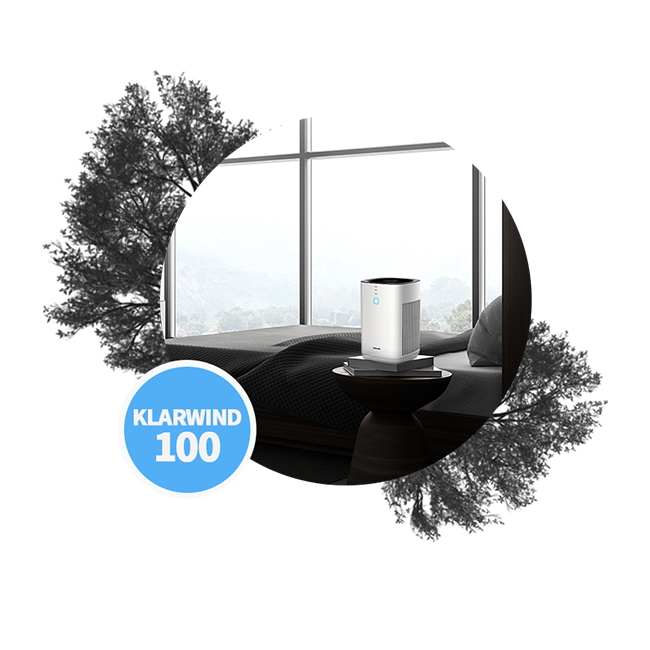
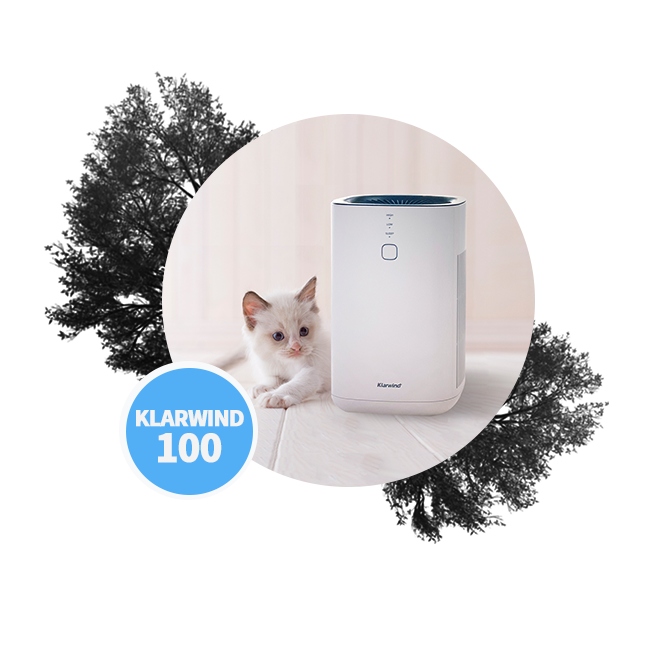
up

diff --git a/klarwind/product.html b/klarwind/product.html
@@ -227,9 +227,9 @@
       <div class="box">
         <img src="images/sub1_mo.png" alt="" class="blind_mo">
         <h1>SPECIAL<br>NEW</h1>
-        <img src="images/sub1.png" alt="" class="blind_pc">
+        <img src="images/sub1.png" alt="" class="blind_pc proimgbg">
         <!-- <div class="ellipse1"></div> -->
-        <img src="images/sub1_1mg.png" alt="" class="blind_pc">
+        <img src="images/sub1_1mg.png" alt="" class="blind_pc proimgtop">
         <div class="visualTxt1">
           <h2>We care you and your family</h2>
           <p>Making a better place for your family is our priority </p>

diff --git a/klarwind/css/Desktops.css b/klarwind/css/Desktops.css
@@ -413,8 +413,10 @@ nav#navTop #topMenu_2 img{width: 40px;}
   box-shadow: 0 5px 15px 0 rgba(0, 0, 0, 0.4);
 }
 .ProductSub_banner .box img{
-  position: absolute;top: 47%;left: 50%;transform: translate(-50%,-50%);width: 80%;
+  position: absolute;top: 47%;left: 50%;transform: translate(-50%,-50%);
 }
+.ProductSub_banner .proimgbg{width: 95%;}
+.ProductSub_banner .proimgtop{width: 80%;}
 .ProductSub_banner h1{
   position: absolute;top: 0;right: 0;color: #52aff6;letter-spacing: -4px;
   font-size: 46px;padding-right: 3%;text-align: right;

diff --git a/klarwind/css/noteb.css b/klarwind/css/noteb.css
@@ -413,8 +413,10 @@ nav#navTop #topMenu_2 img{width: 40px;}
   box-shadow: 0 5px 15px 0 rgba(0, 0, 0, 0.4);
 }
 .ProductSub_banner .box img{
-  position: absolute;top: 47%;left: 50%;transform: translate(-50%,-50%);width: 70%;
+  position: absolute;top: 47%;left: 50%;transform: translate(-50%,-50%);
 }
+.ProductSub_banner .proimgbg{width: 85%;}
+.ProductSub_banner .proimgtop{width: 70%;}
 .ProductSub_banner h1{
   position: absolute;top: 0;right: 0;color: #52aff6;letter-spacing: -4px;
   font-size: 62px;padding-right: 3%;text-align: right;
